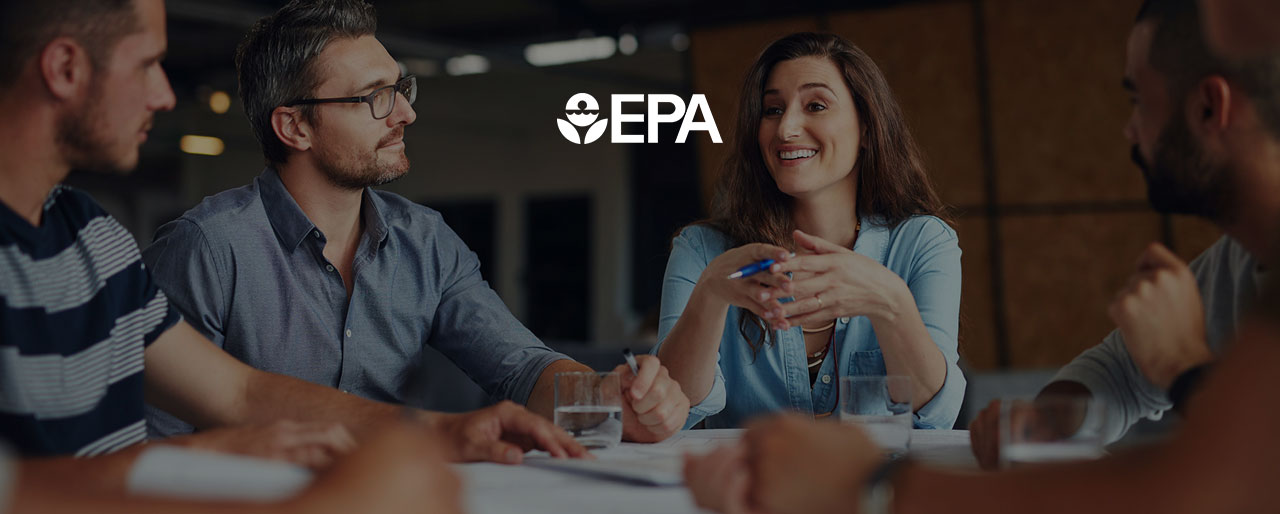
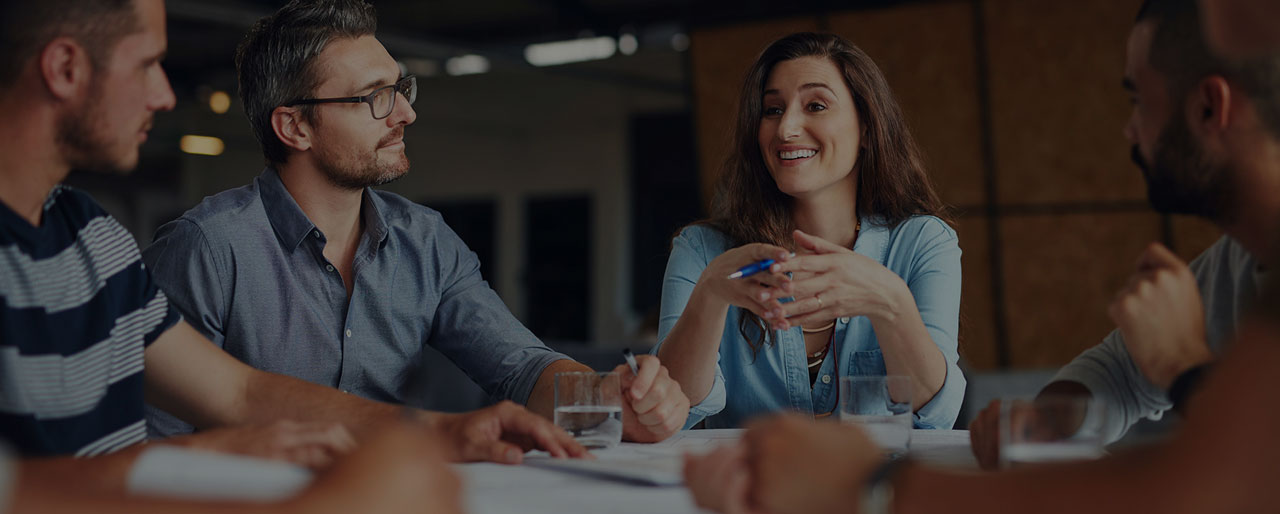
fix log position

Changed region(s): [[0.4375, 0.1556, 0.5625, 0.2802]]

diff --git a/UI_Prototype/css/screen.css b/UI_Prototype/css/screen.css
@@ -184,8 +184,12 @@ header .inner {
   height: 514px;
   background: url(../i/home-bg.jpg) no-repeat;
   background-size: 100%;
+  text-align: center
 }
 
+header .header-logo {
+  padding-top: 90px;
+}
 
 /* footer */
 

diff --git a/UI_Prototype/partials/header.html b/UI_Prototype/partials/header.html
@@ -1,4 +1,4 @@
 <div class="inner clearfix">
-
+    <img class="header-logo" src="i/header-logo.png" alt="">
 
 </div>
